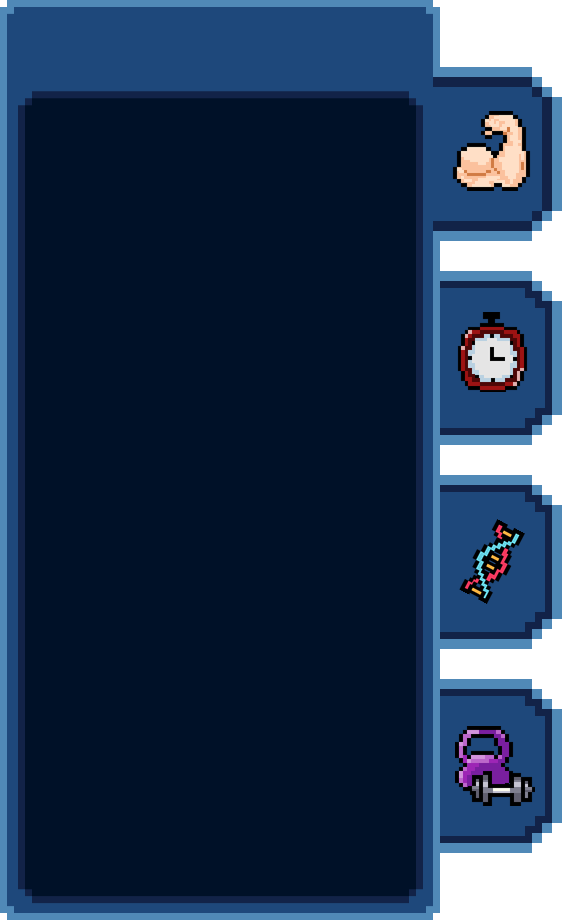
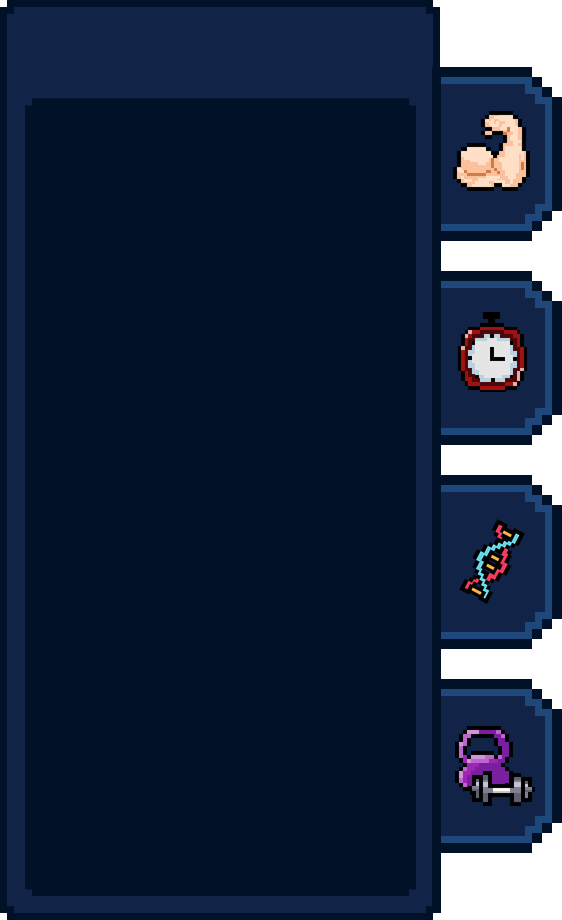
upgrade section tab update
- options button anim
- upgrade section tab + label changes to the selected

Changed region(s): [[0.0, 0.0, 1.0, 1.0]]

diff --git a/Assets/Scripts/UIController.cs b/Assets/Scripts/UIController.cs
@@ -65,6 +65,7 @@ public class UIController : MonoBehaviour
 
     //for the animated upgrade-section
     private VisualElement upgradeSection;
+    private Label upgradeSectionLabel;
     private Coroutine upgradePanelAnimation;
     private bool upgradePanelVisible = false;
     private string currentVisibleUpgrade = null;
@@ -93,6 +94,7 @@ public class UIController : MonoBehaviour
         root = GetComponent<UIDocument>().rootVisualElement;
 
         upgradeSection = root.Q<VisualElement>("upgrade-section");
+        upgradeSectionLabel = root.Q<Label>("upgrade-section-label");
 
         clickScrollView = root.Q<ScrollView>("clickScrollView");
         idleScrollView = root.Q<ScrollView>("idleScrollView");
@@ -107,18 +109,33 @@ public class UIController : MonoBehaviour
         //buttons pressed event handlers
         clickUpgradeButton.clicked += () =>
         {
+            upgradeSection.RemoveFromClassList("idleActive");
+            upgradeSection.RemoveFromClassList("resetActive");
+            upgradeSection.AddToClassList("clickActive");
+            upgradeSectionLabel.text = "Click Upgrades";
+
             ToggleUpgradePanel("click");
             ShowScrollView(clickScrollView);
         };
 
         idleUpgradeButton.clicked += () =>
         {
+            upgradeSection.RemoveFromClassList("resetActive");
+            upgradeSection.RemoveFromClassList("clickActive");
+            upgradeSection.AddToClassList("idleActive");
+            upgradeSectionLabel.text = "Idle Upgrades";
+
             ToggleUpgradePanel("idle");
             ShowScrollView(idleScrollView);
         };
 
         resetUpgradeButton.clicked += () =>
         {
+            upgradeSection.RemoveFromClassList("idleActive");
+            upgradeSection.RemoveFromClassList("clickActive");
+            upgradeSection.AddToClassList("resetActive");
+            upgradeSectionLabel.text = "Reset Upgrades";
+
             ToggleUpgradePanel("reset");
             ShowScrollView(resetScrollView);
         };
@@ -357,6 +374,8 @@ public class UIController : MonoBehaviour
         if (blackBg != null)
             blackBg.style.display = DisplayStyle.None;
         IsClaimed = true;
+
+        AudioController.Instance.PlaySound(SfxType.WelcomeBackClaimed);
     }
 
     //public static string FormatedElapsedTime(TimeSpan elapsed)            --> Unused
@@ -761,13 +780,28 @@ public class UIController : MonoBehaviour
     private void ShowScrollView(ScrollView visibleScroll)
     {
         if (clickScrollView != null)
+        {
             clickScrollView.style.display = visibleScroll == clickScrollView ? DisplayStyle.Flex : DisplayStyle.None;
+            //upgradeSection.RemoveFromClassList("idleActive");
+            //upgradeSection.RemoveFromClassList("resetActive");
+            //upgradeSection.AddToClassList("clickActive");
+        }
 
         if (idleScrollView != null)
+        {
             idleScrollView.style.display = visibleScroll == idleScrollView ? DisplayStyle.Flex : DisplayStyle.None;
+            //upgradeSection.RemoveFromClassList("resetActive");
+            //upgradeSection.RemoveFromClassList("clickActive");
+            //upgradeSection.AddToClassList("idleActive");
+        }
 
         if (resetScrollView != null)
+        {
             resetScrollView.style.display = visibleScroll == resetScrollView ? DisplayStyle.Flex : DisplayStyle.None;
+            //upgradeSection.RemoveFromClassList("clickActive");
+            //upgradeSection.RemoveFromClassList("idleActive");
+            //upgradeSection.AddToClassList("resetActive");
+        }
     }
 
     // Panel animacions
@@ -782,6 +816,11 @@ public class UIController : MonoBehaviour
             upgradePanelAnimation = StartCoroutine(AnimateUpgradePanel(false));
             upgradePanelVisible = false;
             currentVisibleUpgrade = null;
+
+            upgradeSection.RemoveFromClassList("clickActive");
+            upgradeSection.RemoveFromClassList("idleActive");
+            upgradeSection.RemoveFromClassList("resetActive");
+            //upgradeSection.AddToClassList("upgradeSection");
 
             AudioController.Instance.PlaySound(SfxType.CloseSkills);
             return;
